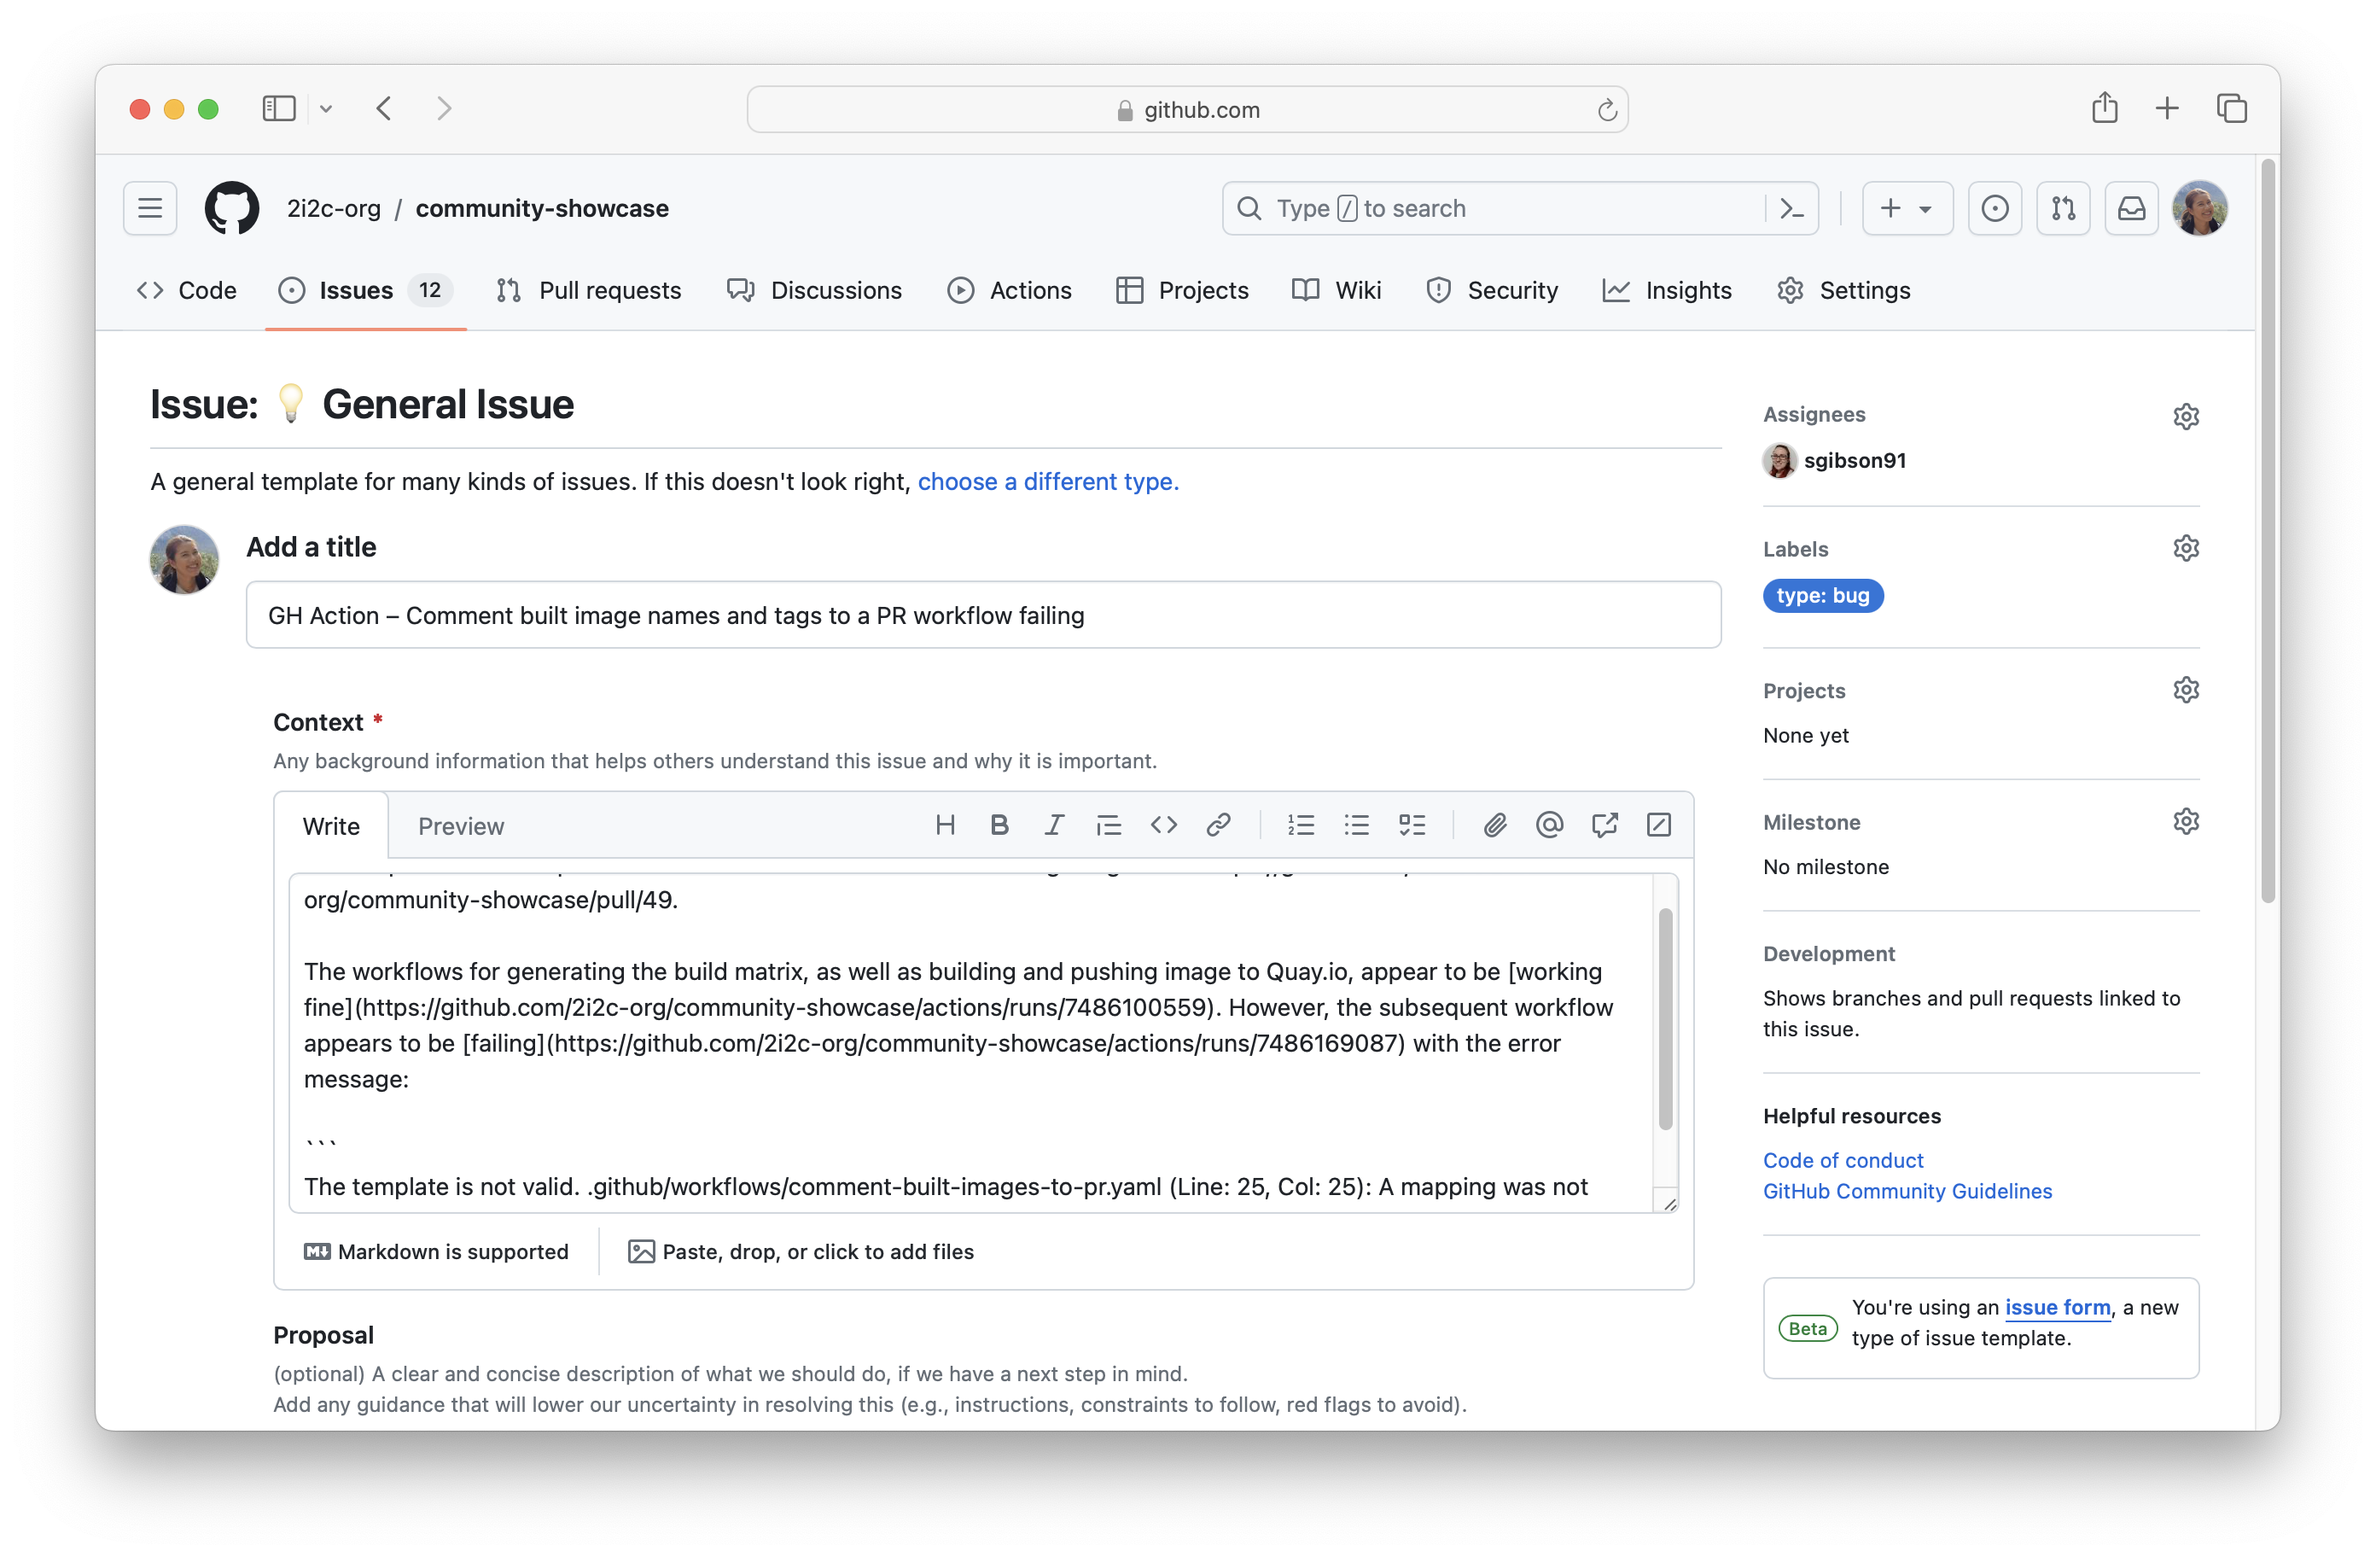
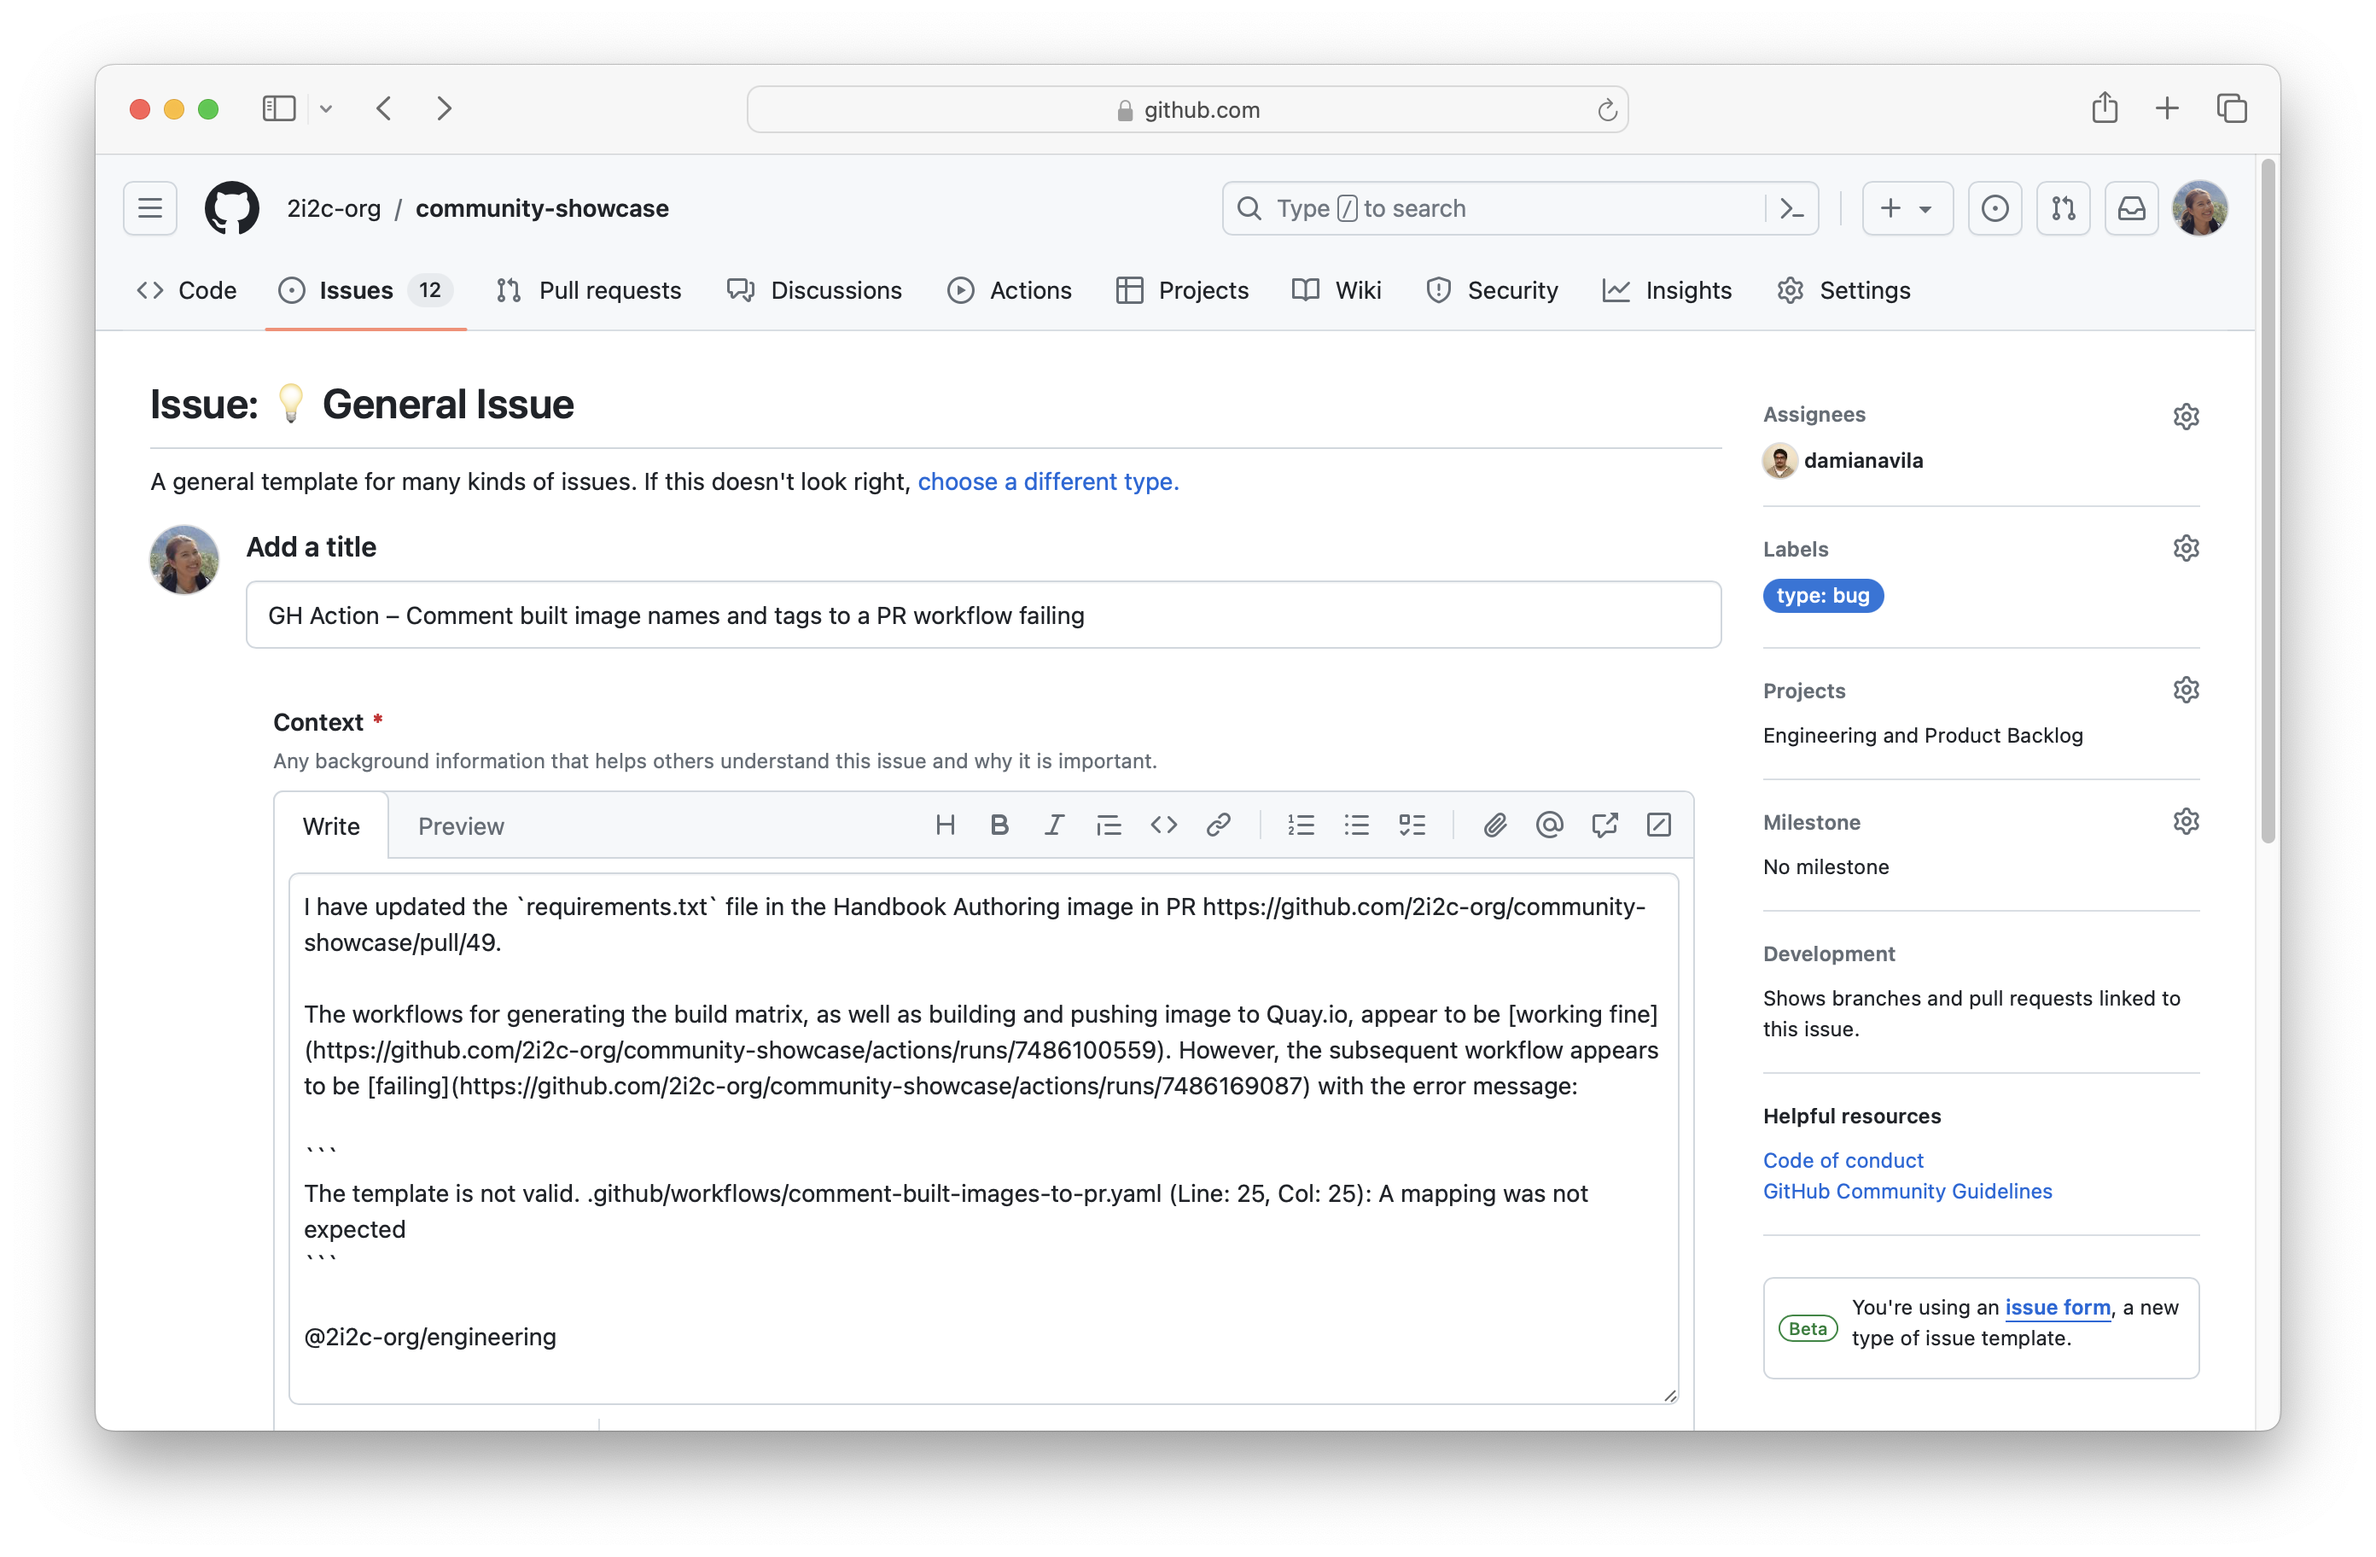
Update process for passing to engineering

diff --git a/partnerships/how-to-guides/github-issues.md b/partnerships/how-to-guides/github-issues.md
@@ -16,8 +16,9 @@ This page describes how you can open a general GitHub issue with the {team}`Engi
 4. Fill out the template
 
     - Populate the text input fields. Try to be concise while providing as much technical detail as you can. For complicated issues, providing a Minimal Working Example and relevant error messages from output logs where possible is a great help. Use code blocks and avoid pasting screenshots of code.
-    - If you know the 2i2c engineer that is responsible for responding to this issue use the **Assignees** field on the right-hand side to assign it to them so that they can add this issue to their Sprint Board. Otherwise, post a comment in the issue tagging the GitHub team **@2i2c-org/engineering** to ping the entire team.
+    - Use the **Assignees** field on the right-hand side to assign it to **@damianavila**, {role}`engineering-manager` to be triaged.
     - In the **Labels** field on the right-hand side, choose *one* relevant issue type: {bdg-info}`type: enhancement`, {bdg-info}`type: bug`, or {bdg-info}`type: task`.
+    - Add the **Engineering and Product Backlog** board to the *Projects* field on the right-hand side.
 
 ```{image} ../media/github-issues/02-general-issue.png
 :alt: Screenshot of a General issue template, with title, context, and optional proposal, updates and actions text input fields.
